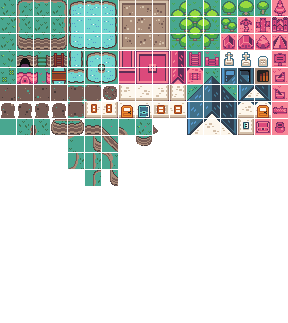
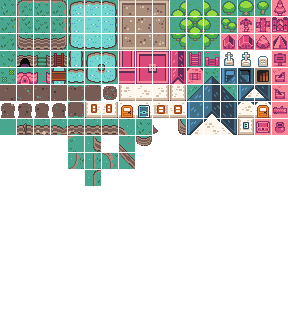
add bottom ledge variation

Changed region(s): [[0.3438, 0.3715, 0.4688, 0.5882], [0.0625, 0.3715, 0.3125, 0.4334], [0.5938, 0.3715, 0.6562, 0.4334]]

diff --git a/src/game/world/MapGenerator.ts b/src/game/world/MapGenerator.ts
@@ -18,7 +18,7 @@ export class MapGenerator {
         return Singletons.getOrCreate(MapGenerator)
     }
 
-    private static readonly MAP_RANGE = 35
+    private static readonly MAP_RANGE = 40
     private static readonly MAP_SIZE = MapGenerator.MAP_RANGE * 2  // map goes from [-MAP_RANGE, MAP_RANGE]
 
     private readonly location = LocationManager.instance.add(
@@ -167,10 +167,12 @@ export class MapGenerator {
         // We want more bottom ledges than top because it looks nicer with the camera "angle"
         const threshold = .3
 
-        let result: [Grid<number>, number] = [null, 1]
+        let result: [Grid<number>, number, string] = [null, 1, null]
         while (result[1] > threshold) {
             result = this.noise()
         }
+
+        console.log(result[2])
 
         return result[0]
     }
@@ -179,21 +181,24 @@ export class MapGenerator {
      * @param levels the number of levels
      * @returns a grid of numbers the size of the map and the ratio of top/bottom ledges
      */
-    static noise(levels: number = 3, seed = Math.random()): [Grid<number>, number] {
+    static noise(levels: number = 3, seed = Math.random()): [Grid<number>, number, string] {
         const noise = new Noise(seed)
 
         const grid = new Grid<number>()
         let str = `seed: ${seed} \n`
 
-        // Each entry will occupy a 2x2 tile section to prevent 
+        // Should be divisible by 2 and a divisor of MAP_SIZE
+        const sq = 2
+
+        // Each entry will occupy a sq x sq tile section to prevent 
         // 1-wide entries that are hard to make work art-wise
-        // TODO: Smooth out edges to prevent stair-step pattern
+        // TODO: Smooth out edges to prevent stair-step pattern?
 
         let bottomLedges = 0
         let topLedges = 0
 
-        for (let i = -MapGenerator.MAP_RANGE; i < MapGenerator.MAP_RANGE; i += 2) {
-            for (let j = -MapGenerator.MAP_RANGE; j < MapGenerator.MAP_RANGE; j += 2) {
+        for (let i = -MapGenerator.MAP_RANGE; i < MapGenerator.MAP_RANGE; i += sq) {
+            for (let j = -MapGenerator.MAP_RANGE; j < MapGenerator.MAP_RANGE; j += sq) {
                 var value = noise.simplex2(i / 100, j / 100);
                 value = (value + 1)/2  // scale to 0-1
                 const v = Math.floor(levels * value)
@@ -209,19 +214,22 @@ export class MapGenerator {
                     }
                 }
 
-                grid.set(new Point(j, i), v)
-                grid.set(new Point(j+1, i+1), v)
-                grid.set(new Point(j+1, i), v)
-                grid.set(new Point(j, i+1), v)
+                for (let m = 0; m < sq; m++) {
+                    for (let n = 0; n < sq; n++) {
+                        grid.set(new Point(j+m, i+n), v)
+                    }
+                }
             }
             str += "\n"
         }
 
         str += `top ledges = ${topLedges}\nbottom ledges = ${bottomLedges}\nratio top/bottom = ${topLedges/bottomLedges}`
 
-        console.log(str)
-        return [grid, topLedges/bottomLedges]
+        return [grid, topLedges/bottomLedges, str]
     }
 }
 
-window["noise"] = MapGenerator.noise
+window["noise"] = (...args: any) => {
+    const result = MapGenerator.noise(args)
+    console.log(result[2])
+}

diff --git a/src/game/world/ground/ConnectingTileLedgeSchema.ts b/src/game/world/ground/ConnectingTileLedgeSchema.ts
@@ -54,7 +54,7 @@ export class ConnectingTileLedgeSchema extends ConnectingTileSchema {
             result = render(new Point(2, 0))
         } else if (w === level && e === level && s < level) {
             // this is a bottom ledge
-            result = render(new Point(5, 7))
+            result = this.getBottomLedge(render)
         } else if (n === level && s === level && e < level) {
             // this is a right ledge
             if (ne === level) {
@@ -104,5 +104,18 @@ export class ConnectingTileLedgeSchema extends ConnectingTileSchema {
         }
 
         return [result]
+    }
+
+    private bottomLedge: ImageRender
+    private getBottomLedge(render: (source: Point, mirrorX: boolean) => ImageRender) {
+        if (!this.bottomLedge) {
+            if (Math.random() < .3) {
+                this.bottomLedge = render(new Point(6, 7), Math.random() > .5)
+            } else {
+                const choices = 5
+                this.bottomLedge = render(new Point(1 + Math.floor(Math.random() * choices), 7), Math.random() > .5)
+            }
+        }
+        return this.bottomLedge
     }
 }
